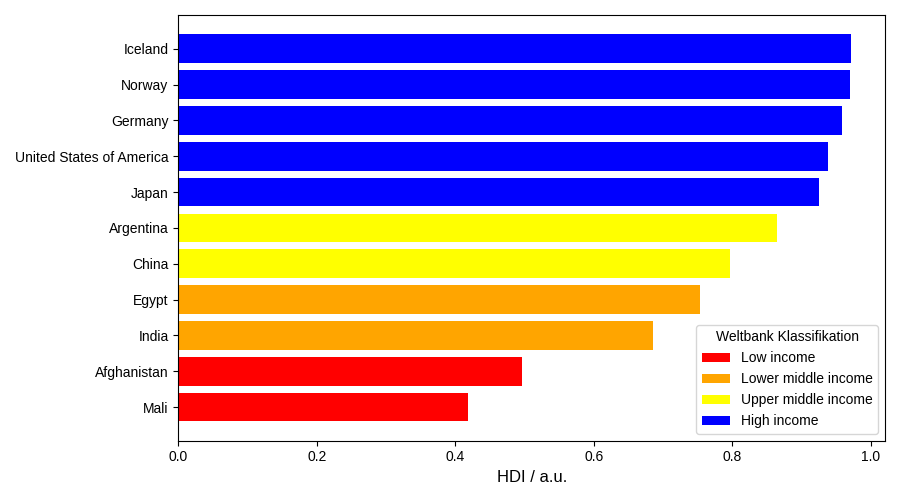
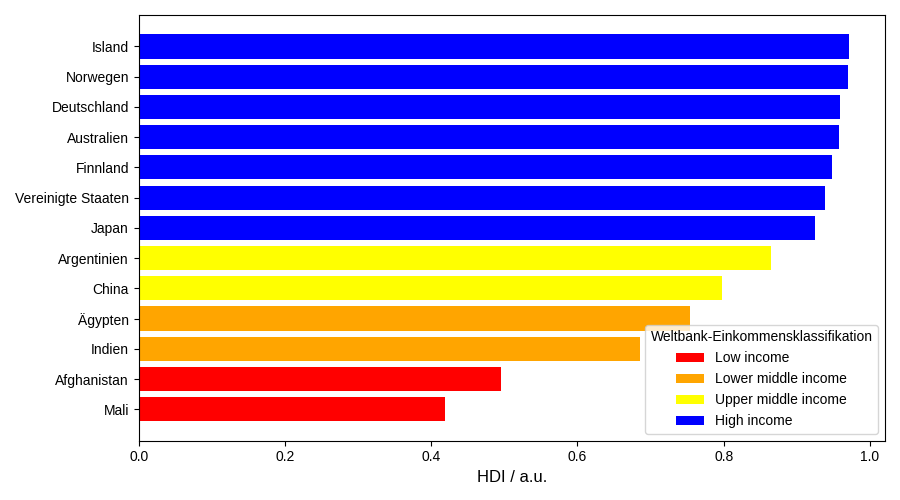
Revised Plots

diff --git a/Analysis.py b/Analysis.py
@@ -148,7 +148,7 @@ cax = divider.append_axes("right", size="5%", pad=0.1)
 # Plot WITHOUT legend
 world_pop.plot(
     column="population",
-    cmap="RdYlBu",
+    cmap="Blues",
     linewidth=0.4,
     ax=ax,
     edgecolor="black",
@@ -165,15 +165,15 @@ norm = mpl.colors.Normalize(
     vmax=world_pop["population"].max()
 )
 
-sm = mpl.cm.ScalarMappable(norm=norm, cmap="RdYlBu")
+sm = mpl.cm.ScalarMappable(norm=norm, cmap="Blues")
 sm._A = []  # required for older matplotlib
 
 cbar = fig.colorbar(sm, cax=cax)
-cbar.set_label("Population (thousands)")
+cbar.set_label("Einwohnerzahl",size = 14)
 
-ax.set_title(f"World Population by Country ({year})", fontsize=14)
+
 ax.axis("off")
-
+plt.savefig("/home/soeke/pb321-BigData/figures/world-population.png", bbox_inches="tight")
 plt.show()
 # %%
 
@@ -495,11 +495,11 @@ sm = mpl.cm.ScalarMappable(norm=norm, cmap="RdYlBu")
 sm._A = []
 
 cbar = fig.colorbar(sm, cax=cax)
-cbar.set_label("Life evaluation (3-year average)")
+cbar.set_label("Happiness Index / a.u.", fontsize=14)
 
-ax.set_title("World Happiness Index (2023)", fontsize=14)
+
 ax.axis("off")
-
+plt.savefig("/home/soeke/pb321-BigData/figures/world-hapiness.png", bbox_inches="tight")
 plt.show()
 
 
@@ -532,11 +532,11 @@ sm = mpl.cm.ScalarMappable(norm=norm, cmap="RdYlBu")
 sm._A = []
 
 cbar = fig.colorbar(sm, cax=cax)
-cbar.set_label("gdp")
+cbar.set_label("BIP", fontsize=14)
 
-ax.set_title("GDP (2023)", fontsize=14)
+#ax.set_title("BIP / USD", fontsize=14)
 ax.axis("off")
-
+plt.savefig("/home/soeke/pb321-BigData/figures/world-GDP.png", bbox_inches="tight")
 plt.show()
 # %% Plot gdp per capita
 
@@ -568,11 +568,11 @@ sm = mpl.cm.ScalarMappable(norm=norm, cmap="RdYlBu")
 sm._A = []
 
 cbar = fig.colorbar(sm, cax=cax)
-cbar.set_label("gdp_per_capita")
+cbar.set_label("BIP pro Einwohner / USD",fontsize=14)
 
-ax.set_title("GDP per Capita (2023)", fontsize=14)
+#ax.set_title("GDP per Capita (2023)", fontsize=14)
 ax.axis("off")
-
+plt.savefig("/home/soeke/pb321-BigData/figures/world-GDP_per_capita.png", bbox_inches="tight")
 plt.show()
 
 
@@ -605,11 +605,11 @@ sm = mpl.cm.ScalarMappable(norm=norm, cmap="RdYlBu")
 sm._A = []
 
 cbar = fig.colorbar(sm, cax=cax)
-cbar.set_label("gni")
+cbar.set_label("GNI / USD", fontsize=14)
 
-ax.set_title("GNI (2023)", fontsize=14)
+#ax.set_title("GNI (2023)", fontsize=14)
 ax.axis("off")
-
+plt.savefig("/home/soeke/pb321-BigData/figures/world-GNI.png", bbox_inches="tight")
 plt.show()
 
 # %% Create happiness barplot per country
@@ -649,27 +649,30 @@ combined_df_2023["world_bank_classification"] = pd.cut(
 #%%
 from pandas.api.types import CategoricalDtype
 
+# -----------------------------
+# World Bank income categories (German, ordered)
+# -----------------------------
 income_order = CategoricalDtype(
     categories=[
-        "Low income",
-        "Lower middle income",
-        "Upper middle income",
-        "High income"
+        "Niedriges Einkommen",
+        "Unteres mittleres Einkommen",
+        "Oberes mittleres Einkommen",
+        "Hohes Einkommen",
+        "Keine Daten"
     ],
     ordered=True
 )
 
-combined_df_2023["world_bank_classification"] = (
-    combined_df_2023["world_bank_classification"]
-    .astype(income_order)
-)
-
-import matplotlib.patches as mpatches
-import numpy as np
-
-# Create World Bank classification in world_happiness_2023 based on GNI
+# -----------------------------
+# Assign World Bank classification based on GNI
+# -----------------------------
 bins = [-np.inf, 1135, 4465, 13845, np.inf]
-labels = ["Low income", "Lower middle income", "Upper middle income", "High income"]
+labels = [
+    "Niedriges Einkommen",
+    "Unteres mittleres Einkommen",
+    "Oberes mittleres Einkommen",
+    "Hohes Einkommen"
+]
 
 world_happiness_2023["world_bank_classification"] = pd.cut(
     world_happiness_2023["gni"],
@@ -677,26 +680,30 @@ world_happiness_2023["world_bank_classification"] = pd.cut(
     labels=labels
 )
 
-#Add a category for missing values
+# Add category for missing values and enforce order
 world_happiness_2023["world_bank_classification"] = (
     world_happiness_2023["world_bank_classification"]
-    .cat.add_categories("No data")
-    .fillna("No data")
+    .cat.add_categories("Keine Daten")
+    .fillna("Keine Daten")
+    .astype(income_order)
 )
 
-# Manual color mapping
+# -----------------------------
+# Manual color mapping (German labels!)
+# -----------------------------
 income_colors = {
-    "Low income": "red",
-    "Lower middle income": "orange",
-    "Upper middle income": "yellow",
-    "High income": "blue",
-    "No data": "lightgrey"
+    "Niedriges Einkommen": "red",
+    "Unteres mittleres Einkommen": "orange",
+    "Oberes mittleres Einkommen": "yellow",
+    "Hohes Einkommen": "blue",
+    "Keine Daten": "lightgrey"
 }
 
-# Map column to colors
 colors = world_happiness_2023["world_bank_classification"].map(income_colors)
 
+# -----------------------------
 # Plot
+# -----------------------------
 fig, ax = plt.subplots(1, 1, figsize=(14, 8))
 
 world_happiness_2023.plot(
@@ -706,20 +713,25 @@ world_happiness_2023.plot(
     edgecolor="black"
 )
 
-ax.set_title("World Bank Income Classification (2023)", fontsize=14)
 ax.axis("off")
 
-# Manual legend
-legend_handles = [mpatches.Patch(color=c, label=l) for l, c in income_colors.items()]
+# -----------------------------
+# Legend (ordered, German)
+# -----------------------------
+legend_handles = [
+    mpatches.Patch(color=income_colors[label], label=label)
+    for label in income_order.categories
+]
+
 ax.legend(
     handles=legend_handles,
-    title="World Bank income group",
+    title="Weltbank-Einkommensklassifikation",
     loc="lower left",
     frameon=True
 )
 
+plt.savefig("/home/soeke/pb321-BigData/figures/world-worldbank-classification.png", bbox_inches="tight")
 plt.show()
-
 
 # %% Plot hdi 
 fig, ax = plt.subplots(1, 1, figsize=(14, 8))
@@ -749,11 +761,11 @@ sm = mpl.cm.ScalarMappable(norm=norm, cmap="RdYlBu")
 sm._A = []
 
 cbar = fig.colorbar(sm, cax=cax)
-cbar.set_label("hdi")
+cbar.set_label("HDI")
 
-ax.set_title("HDI (2023)", fontsize=14)
+#ax.set_title("HDI (2023)", fontsize=14)
 ax.axis("off")
-
+plt.savefig("/home/soeke/pb321-BigData/figures/world-HDI.png", bbox_inches="tight")
 plt.show()
 
 

diff --git a/plotting.py b/plotting.py
@@ -7,9 +7,32 @@ import seaborn as sns
 from matplotlib.lines import Line2D
 # %%
 df = pd.read_parquet("combined2023_df.parquet")
-countries = {"Germany", "United States of America", "Norway", "Iceland", "China", "India", "Mali", "Afghanistan", "Japan", "Finnland", "Argentina", "Austrailia","Egypt"}
-#Selected Countries DF
-df_sel = df[df["country"].isin(countries)]
+
+# English → German country names
+country_translation = {
+    "Germany": "Deutschland",
+    "United States of America": "Vereinigte Staaten",
+    "Norway": "Norwegen",
+    "Iceland": "Island",
+    "China": "China",
+    "India": "Indien",
+    "Mali": "Mali",
+    "Afghanistan": "Afghanistan",
+    "Japan": "Japan",
+    "Finland": "Finnland",
+    "Argentina": "Argentinien",
+    "Australia": "Australien",
+    "Egypt": "Ägypten"
+}
+
+# Countries to select (use English names as stored in the data!)
+countries = set(country_translation.keys())
+
+# Select countries
+df_sel = df[df["country"].isin(countries)].copy()
+
+# Rename to German
+df_sel["country"] = df_sel["country"].replace(country_translation)
 plt.rcParams['font.family'] = 'Liberation Sans'
 
 color_map = {
@@ -66,7 +89,7 @@ plt.xlabel("Lebenserwartung bei Geburt / Jahre", fontsize=12)
 
 plt.legend(
     handles=legend_handles,
-    title="Weltbank Klassifikation",
+    title="Weltbank-Einkommensklassifikation",
     loc="upper left",
     fontsize=12
 )
@@ -123,7 +146,7 @@ plt.ylabel("Happinesscore / a.u.", fontsize=12)
 
 plt.legend(
     handles=legend_handles + [fit_line],
-    title="Weltbank Klassifikation",
+    title="Weltbank-Einkommensklassifikation",
     loc="upper left",
     fontsize=12
 )
@@ -162,7 +185,7 @@ plt.scatter(
 plt.ylabel("Happinesscore / a.u.", fontsize=12)
 plt.xlabel("Erwartete Schuljahre / Jahre", fontsize=12)
 
-plt.legend(handles=legend_handles, title="Weltbank Klassifikation")
+plt.legend(handles=legend_handles, title="Weltbank-Einkommensklassifikation")
 plt.tight_layout()
 plt.savefig("/home/soeke/pb321-BigData/figures/plot-Happiness-Bildung.png")
 plt.show()
@@ -261,7 +284,7 @@ plt.ylabel("Happinesscore / a.u.", fontsize=12)
 plt.xlabel("BIP / USD", fontsize=12)
 #plt.xscale("log")
 
-plt.legend(handles=legend_handles, title="Weltbank Klassifikation")
+plt.legend(handles=legend_handles, title="Weltbank-Einkommensklassifikation")
 plt.tight_layout()
 plt.savefig("/home/soeke/pb321-BigData/figures/plot-Happiness-BIP.png")
 plt.show()
@@ -317,7 +340,7 @@ plt.xlabel("BIP pro Einwohner / USD", fontsize=12)
 
 plt.legend(
     handles=legend_handles + [fit_line],
-    title="Weltbank Klassifikation"
+    title="Weltbank-Einkommensklassifikation"
 )
 plt.tight_layout()
 plt.savefig("/home/soeke/pb321-BigData/figures/plot-Happiness-BIP_pro_Einwohner.png")
@@ -345,7 +368,7 @@ plt.ylabel("Happinesscore / a.u.", fontsize=12)
 plt.xlabel("BIP pro Einwohner / USD", fontsize=12)
 #plt.xscale("log")
 
-plt.legend(title="Weltbank Klassifikation")
+plt.legend(title="Weltbank-Einkommensklassifikation")
 plt.tight_layout()
 plt.savefig("/home/soeke/pb321-BigData/figures/plot-Happiness-BIP_pro_Einwohner-HighIncome.png")
 plt.show()
@@ -389,6 +412,8 @@ sns.heatmap(
     cbar_kws={"shrink": 0.8}
 )
 plt.tight_layout()
+plt.xticks(rotation=45, ha="right",fontsize=14)
+plt.yticks(fontsize=14)
 plt.savefig("/home/soeke/pb321-BigData/figures/plot-correlation-Heatmap.png")
 plt.show()
 
@@ -424,7 +449,7 @@ plt.xlabel("BIP pro Einwohner / USD")
 plt.ylabel("Lebenserwartung / Jahre")
 plt.xscale("log")
 
-plt.legend(handles=legend_handles, title="Weltbank Klassifikation",loc="upper left")
+plt.legend(handles=legend_handles, title="Weltbank-Einkommensklassifikation",loc="upper left")
 plt.tight_layout()
 plt.savefig("/home/soeke/pb321-BigData/figures/plot-BIP_pro_Einwohner-Lebenserwartung.png")
 plt.show()
@@ -471,7 +496,7 @@ plt.xlabel("GDP per capita (USD)")
 plt.ylabel("Differenz Lebenserwartung (Weiblich - Männlich) / Jahre")
 plt.xscale("log")
 
-plt.legend(handles=legend_handles, title="Weltbank Klassifikation",loc="upper left")
+plt.legend(handles=legend_handles, title="Weltbank-Einkommensklassifikation",loc="upper left")
 plt.tight_layout()
 plt.savefig("/home/soeke/pb321-BigData/figures/plot-BIP_pro_Einwohner-Lebenserwartung-Differenz.png")
 plt.show()
@@ -500,7 +525,7 @@ plt.xlabel("Happinesscore / a.u.", fontsize=12)
 
 plt.legend(
     handles=legend_handles,
-    title="Weltbank Klassifikation",
+    title="Weltbank-Einkommensklassifikation",
     loc="lower right"
 )
 
@@ -536,7 +561,7 @@ legend_handles = [
 
 plt.legend(
     handles=legend_handles,
-    title="Weltbank Klassifikation",
+    title="Weltbank-Einkommensklassifikation",
     loc="lower right"
 )
 
@@ -571,7 +596,7 @@ legend_handles = [
 
 plt.legend(
     handles=legend_handles,
-    title="Weltbank Klassifikation",
+    title="Weltbank-Einkommensklassifikation",
     loc="lower right"
 )
 
@@ -606,7 +631,7 @@ legend_handles = [
 
 plt.legend(
     handles=legend_handles,
-    title="Weltbank Klassifikation",
+    title="Weltbank-Einkommensklassifikation",
     loc="lower right"
 )
 
@@ -641,7 +666,7 @@ legend_handles = [
 
 plt.legend(
     handles=legend_handles,
-    title="Weltbank Klassifikation",
+    title="Weltbank-Einkommensklassifikation",
     loc="lower right"
 )
 
